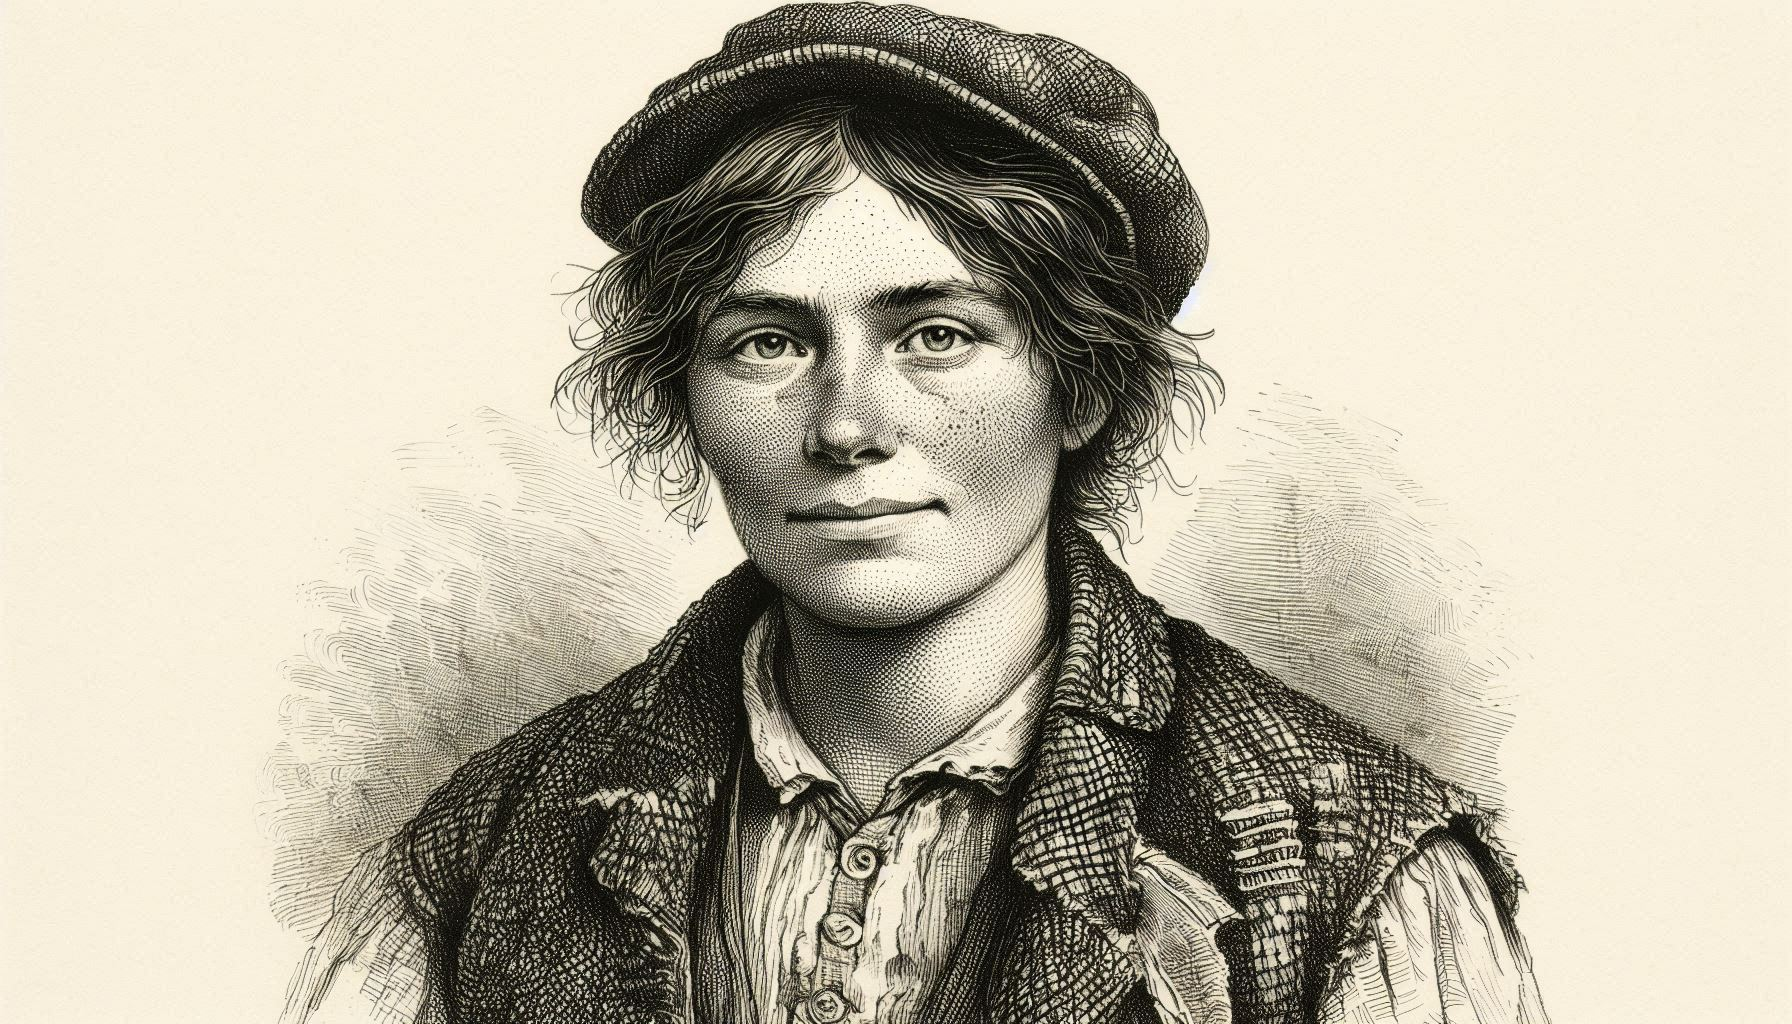
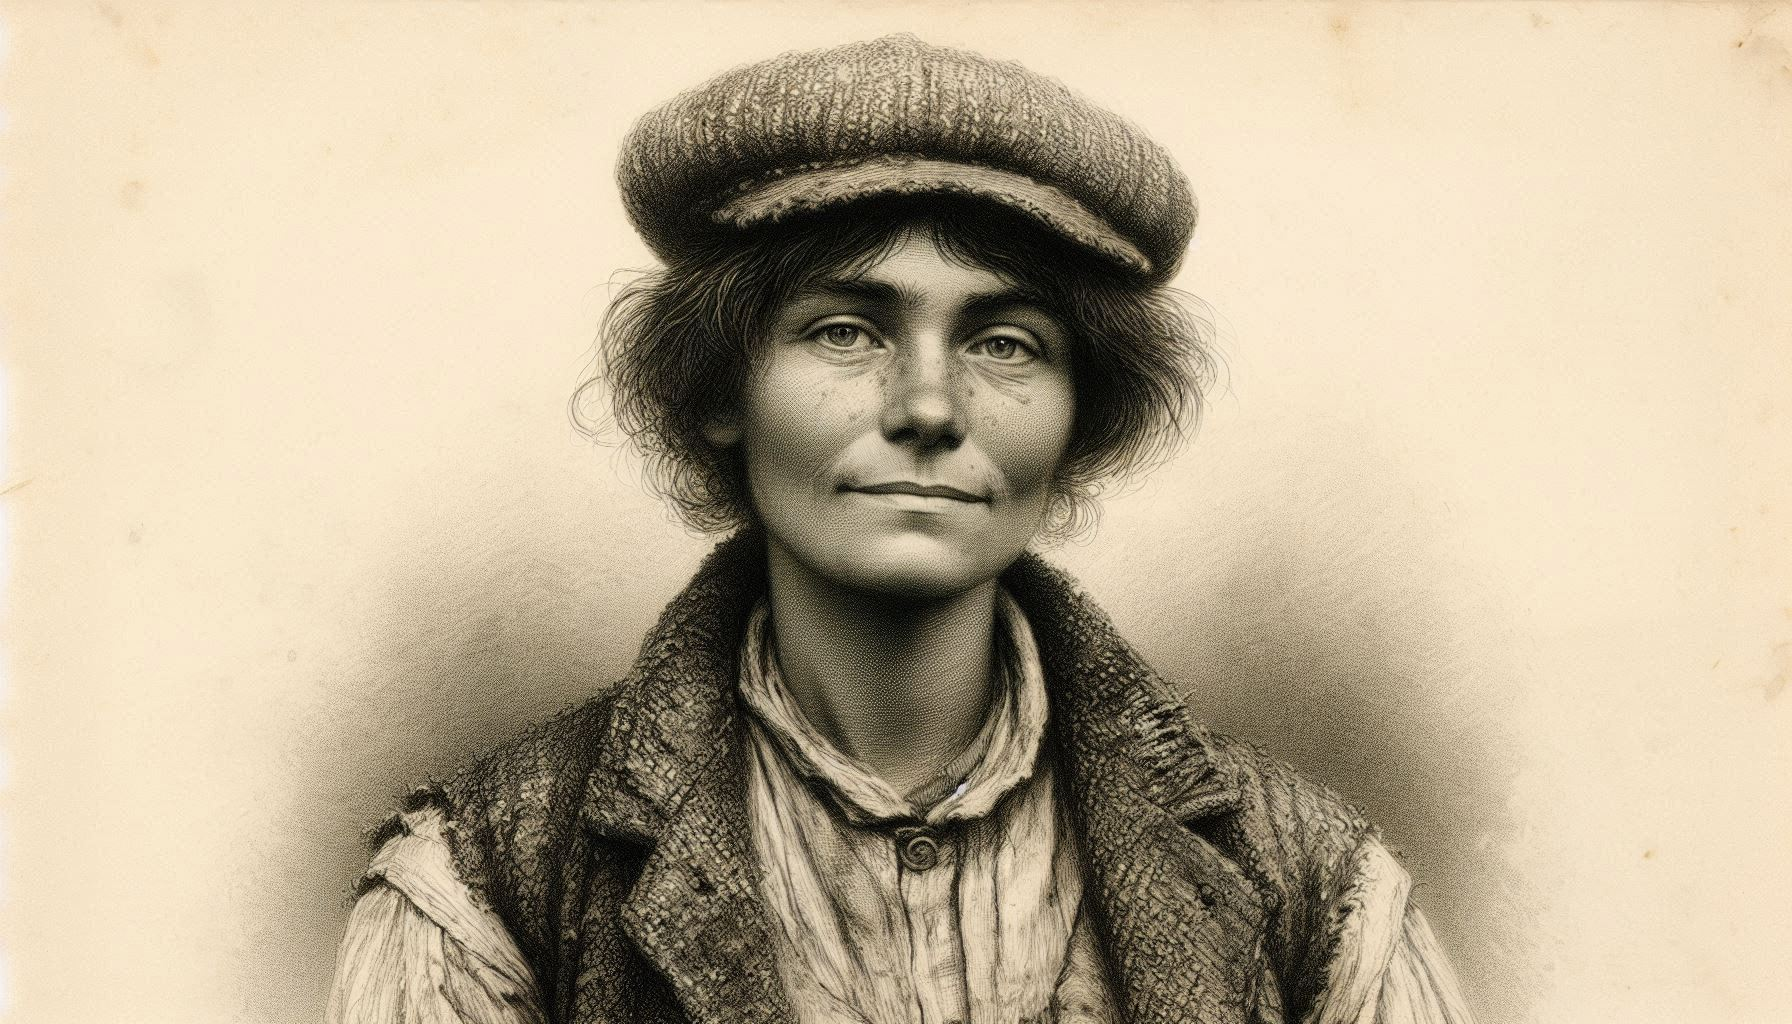
Quartz sync: Nov 28, 2024, 5:52 PM

diff --git a/content/5-NPCs/nell-nipper-hayes.md b/content/5-NPCs/nell-nipper-hayes.md
@@ -10,8 +10,8 @@ tags:
 **Role:** Pickpocket, childhood friend of [Erastis Freyn](erastis-freyn)<br>
 **Primary Location:** [Fairhaven](fairhaven)
 
-Nell was one of many children who were left to fend for themselves as everyone in the new colony struggled for survival. She grew up on the streets of Fairhaven, part of a gang of street kids who survived through thievery and an occasional assault. When her friend Erastis life was recruited into the Haven Syndicate (the "Shades" in street parlance), Nell continued to live by her wits on the streets
+Nell is one of many children who were left to fend for themselves as everyone in the new colony struggled for survival. She grew up on the streets of Fairhaven, part of a gang of street kids who survived through pickpocketing, second-story work and the occasional mugging. When her friend Erastis life was recruited into the Haven Syndicate (the "Shades" in street parlance), Nell continued to live by her wits on the streets
 
-**Personality:** Nell is independent. She’s been hardened by years of day-to-day survival, but she soft spot for other street kids, often sharing what little she has with them. She’s a chatterbox, prone to talking her way into and out of trouble.
+**Personality:** Nell is independent. She’s been hardened by years of day-to-day survival, but she soft spot for other street kids. She'll often share what little she has with them. She’s a chatterbox, prone to talking her way into and out of trouble.
 
-**Appearance:** Average height with short, choppy brown hair tucked under a cap. Her face is over-thin and weathered, but with a perpetual smirk. Nell dresses in a patched wool vest over a threadbare shirt, breeches and scuffed leather boots.
+**Appearance:** Average height with short, choppy brown hair tucked under a cap. Her face is thin and weathered. Nell dresses in a patched wool vest over a threadbare shirt, breeches and scuffed leather boots.

diff --git a/content/5-NPCs/martha-trelawney.md b/content/5-NPCs/martha-trelawney.md
@@ -1,0 +1,17 @@
+---
+title: Martha Trelawney
+draft: false
+tags:
+  - npcs
+---
+![[npc-martha-trelawney.jpg]]
+
+**Faction/Organization:** N/A<br>
+**Role:** Owner of the Settlers' Rest Inn<br>
+**Primary Location:** [Fairhaven](fairhaven)
+
+Martha Trelawney.  
+
+**Personality:** Martha's genuine kindness and compassion create a welcoming atmosphere, making the inn a true haven for travelers and locals alike. She's always ready with a listening ear and a comforting word, offering solace and support to those who seek it.
+
+**Appearance:** Martha is tall and broad-shouldered with a round and open face. She has dark hair streaked with silver that she wears up. She favors comfortable clothing in cheerful colors.

diff --git a/content/5-NPCs/thaddeus-cole.md b/content/5-NPCs/thaddeus-cole.md
@@ -7,7 +7,7 @@ tags:
 ![[npc-thaddeus-cole-alt.jpg]]
 
 **Faction/Organization:** [The Haven Syndicate](the-haven-syndicate.md)<br>
-**Role:** Senior Operative<br>
+**Role:** Senior operative, handler for [Himari](himari)<br>
 **Primary Location:** [Fairhaven](fairhaven)
 
 Thaddeus is one of the Syndicate's most skilled and trusted operatives. He handles missions ranging from protection to breaking and entering to sabotage. He is known for his resourcefulness and combat skills.
